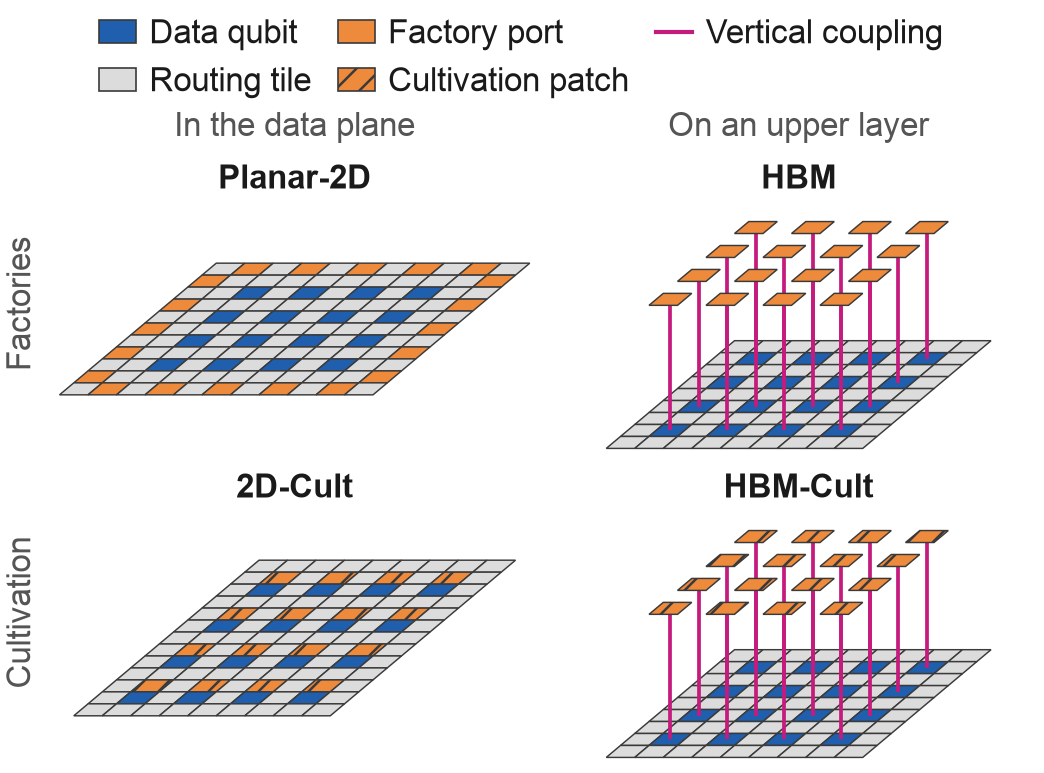
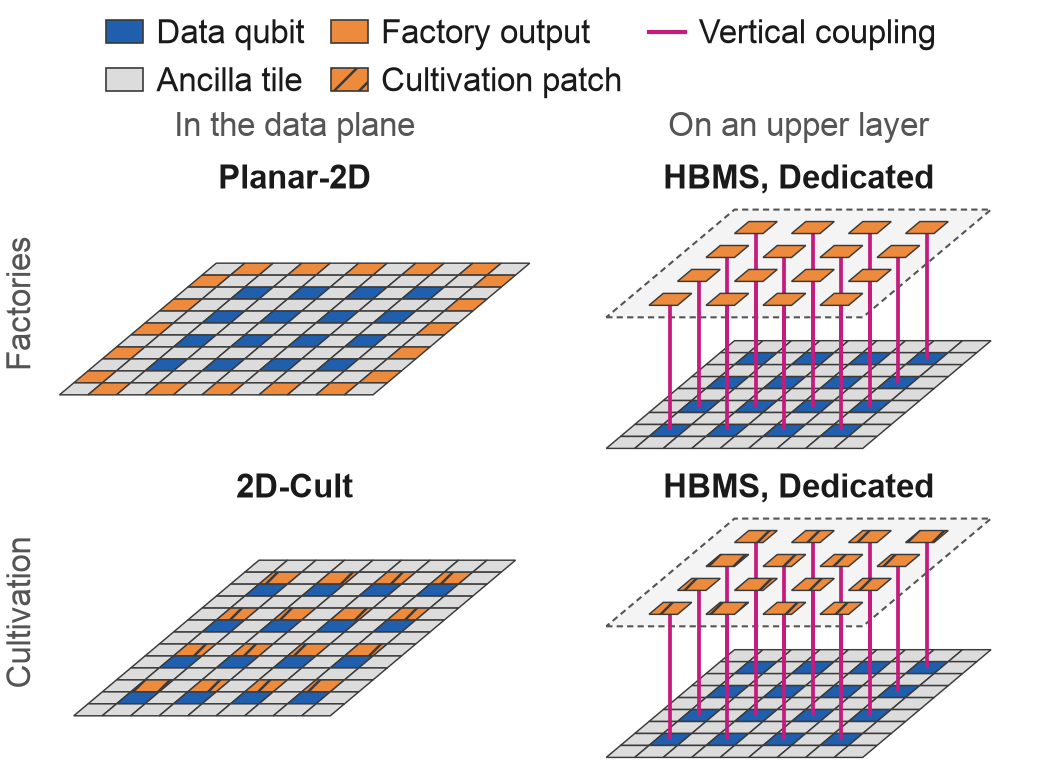
design_space: Fig. 1 of the intro (HBMS naming, ancilla tiles, factory outputs, dashed upper layer)

diff --git a/scripts/revision/draw_schematics.py b/scripts/revision/draw_schematics.py
@@ -2,9 +2,9 @@
 
   python draw_schematics.py [--out figures/revision] [--fmt pdf,png]
 
-  design_space       (one column) the four evaluated designs for N = 16, from the simulator's
-                     own layouts (designs.build_arch): T-state source (factory or cultivation)
-                     against placement (data plane or upper layer). Replaces the old Figs. 1, 3.
+  design_space       (one column) the planar baselines and HBMS-Dedicated for N = 16, from the
+                     simulator's own layouts (designs.build_arch): resource (factory or
+                     cultivation) against placement (data plane or upper layer). Fig. 1.
   cross_layer_merge  (two columns) the Z_D Z_M merge that injects a T state from the upper
                      layer: (a) the merged patch, (b) the same patch folded across the layers,
                      (c) the CNOT order of a cross-layer check. Replaces the old Fig. 2.
@@ -80,6 +80,9 @@ def draw_layout(ax, arch, source, top, lift):
         tile(ax, x, y, 0, DATA if p in data else src[0] if not top and p in sources else ROUTE,
              hatch=src[1] if not top and p in sources and p not in data else None)
     if top:
+        corners = [oblique(a, b, lift) for a, b in ((0, 0), (w, 0), (w, h), (0, h))]
+        ax.add_patch(Polygon(corners, closed=True, facecolor="#F4F4F4", edgecolor=MUTED,
+                             lw=0.5, ls=(0, (3, 2)), zorder=2.2))  # the upper layer
         for p in data:  # vertical coupling from each data tile to the tile above it
             x, y = xy(p)
             (a, b), (_, c) = oblique(x + .5, y + .5, 0), oblique(x + .5, y + .5, lift)
@@ -94,8 +97,8 @@ def draw_layout(ax, arch, source, top, lift):
 def design_space(path, n=16):
     """2 x 2: rows factory / cultivation, columns in the data plane / on an upper layer, every
     cell at the same scale."""
-    cells = {(0, 0): ("D0-alt", "Planar-2D"), (0, 1): ("D3-k1-fact", "HBM"),
-             (1, 0): ("D2-wide", "2D-Cult"), (1, 1): ("D3-k1", "HBM-Cult")}
+    cells = {(0, 0): ("D0-alt", "Planar-2D"), (0, 1): ("D3-k1-fact", "HBMS, Dedicated"),
+             (1, 0): ("D2-wide", "2D-Cult"), (1, 1): ("D3-k1", "HBMS, Dedicated")}
     lift, unit = 4.6, 0.095  # inches per tile
     fig = plt.figure(figsize=(COL, 2.55))
     left, gap, cell_w = 0.17, 0.08, None
@@ -123,8 +126,8 @@ def design_space(path, n=16):
         fig.text((left + ci * (cell_w + gap) + cell_w / 2) / COL, (2.55 - top_h + 0.04) / 2.55,
                  text, ha="center", va="bottom", fontsize=8, color=MUTED)
     handles = [Patch(facecolor=DATA, edgecolor=EDGE, lw=0.4, label="Data qubit"),
-               Patch(facecolor=ROUTE, edgecolor=EDGE, lw=0.4, label="Routing tile"),
-               Patch(facecolor=SOURCE, edgecolor=EDGE, lw=0.4, label="Factory port"),
+               Patch(facecolor=ROUTE, edgecolor=EDGE, lw=0.4, label="Ancilla tile"),
+               Patch(facecolor=SOURCE, edgecolor=EDGE, lw=0.4, label="Factory output"),
                Patch(facecolor=SOURCE, edgecolor=EDGE, lw=0.4, hatch=CULT_HATCH,
                      label="Cultivation patch"),
                Line2D([], [], color=LINK, lw=1.0, label="Vertical coupling")]
@@ -574,16 +577,15 @@ def save(fig, path):
 
 CAPTIONS = {
     "design_space": (
-        "The four evaluated designs for N = 16 logical data qubits, drawn from the "
-        "simulator's layouts. Rows: T-state source (15-to-1 distillation factories or "
-        "magic-state cultivation). Columns: placement of the sources, in the data plane or "
-        "on an upper layer connected by vertical couplings. Planar-2D places a factory port "
-        "on every other tile of a ring around the data; 2D-Cult places a cultivation patch "
-        "beside each data qubit; HBM and HBM-Cult place one source above each data qubit "
-        "(Dedicated) on an upper layer that holds only sources. Factory bodies (11 tiles "
-        "each) are not drawn; a cultivation patch is drawn as one tile. Shared-S layouts keep "
-        "one upper-layer source per S data qubits, and T gates reach them by routing on the "
-        "data layer to the tile below a source (Lower-First)."),
+        "The planar baselines and HBMS for N = 16 logical data qubits, drawn from the "
+        "simulator's layouts. Rows: kind of magic-state resource, 15-to-1 distillation "
+        "factories or cultivation patches. Columns: where the resources sit, in the data plane "
+        "or on an upper layer. Planar-2D places a factory output on every other tile of a ring "
+        "around the data region; 2D-Cult places a cultivation patch beside each data qubit. "
+        "HBMS places the resources on an upper layer that holds nothing else, here one above "
+        "each data qubit (Dedicated), each with one vertical coupling to the tile below it. "
+        "The factories' distillation blocks are not drawn: in Planar-2D they sit outside the "
+        "ring, in HBMS on further layers above."),
     "lower_first": (
         "Lower-First routing in a Shared-2 configuration of a Square Sparse layout with four "
         "logical data qubits (the simulator's layout): (a) both layers, (b) the data layer "
